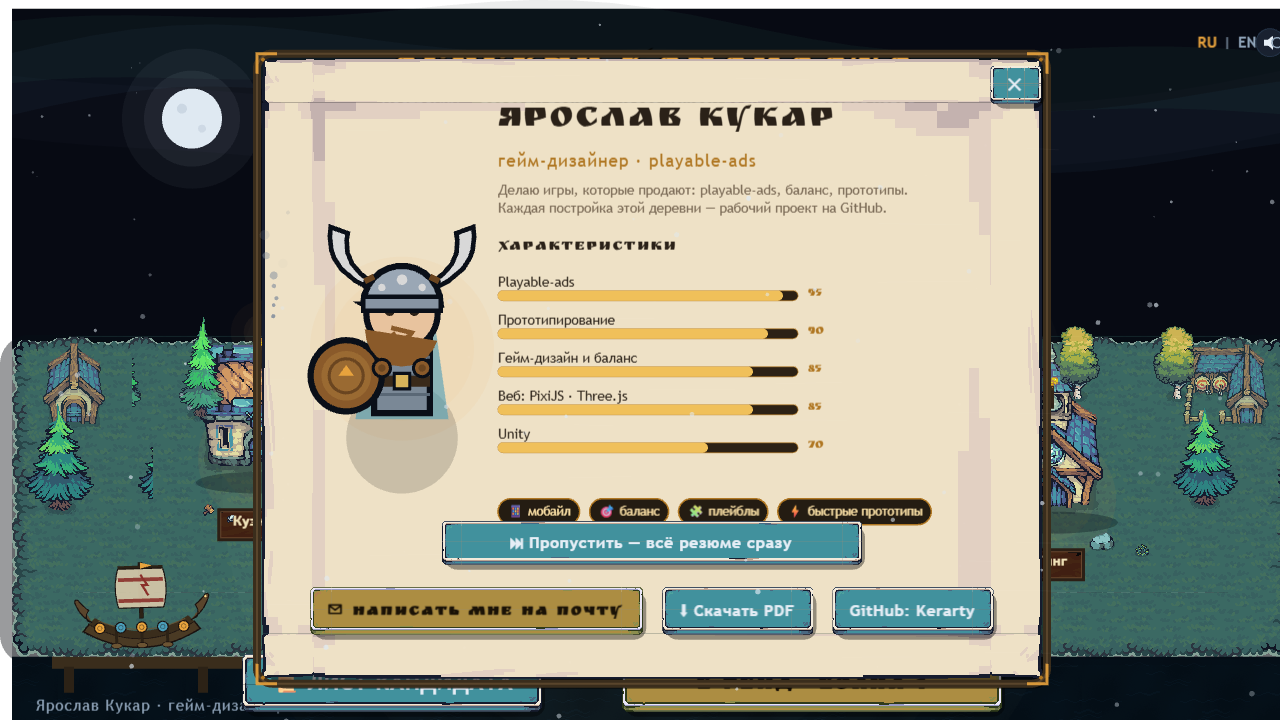
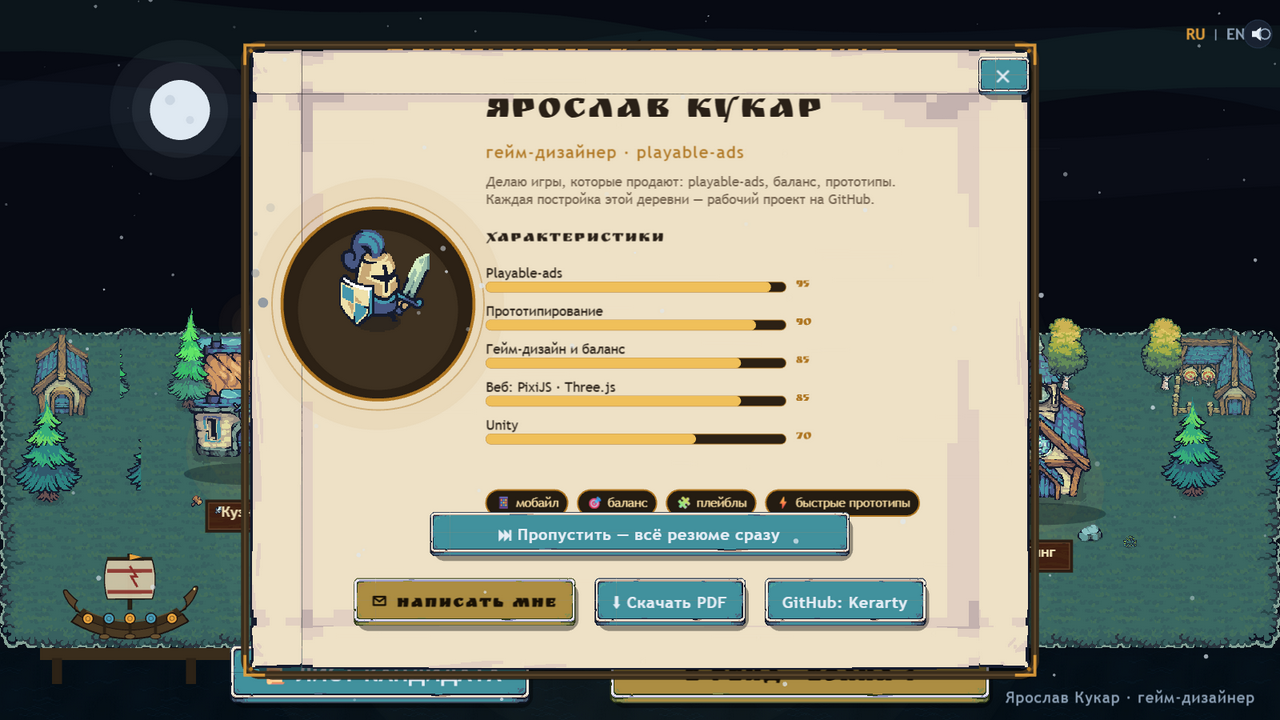
новый аватар-медальон и аккуратный ряд контактов в листе
Аватар — спрайт воина Tiny Swords в золотом медальоне (процедурный викинг остался фолбэком). Кнопка письма переименована в «Написать мне», ряд контактов сжимается под ширину панели и больше не вылезает за пергамент на узких окнах — заодно починился и он в «Резюме целиком».

diff --git a/index.html b/index.html
@@ -2484,7 +2484,7 @@ G.T = {
     sheet_title: 'Лист кандидата',
     sheet_stats: 'Характеристики',
     sheet_contacts: 'Контакты',
-    sheet_mail: '✉ Написать мне на почту',
+    sheet_mail: '✉ Написать мне',
     sheet_pdf: '⬇ Скачать PDF',
     sheet_all: '⏭ Пропустить — всё резюме сразу',
     fr_title: 'Резюме целиком',
@@ -4974,14 +4974,18 @@ G.ui = {
     const grain = G.viz.grain(w, h, 0.045);
     grain.x = -w / 2; grain.y = -h / 2;
     c.addChild(sheet, g, grain);
-    // аватар: викинг с кольчугой, косами и щитом
+    // аватар: медальон со спрайтом воина Tiny Swords (фолбэк — процедурный викинг)
     const avatar = new PIXI.Container();
-    avatar.x = -w / 2 + 140; avatar.y = -30;
+    avatar.x = -w / 2 + 128; avatar.y = -70;
     const halo = new PIXI.Graphics();
-    halo.circle(0, 10, 92).fill({ color: G.C.gold, alpha: 0.06 });
-    halo.circle(0, 10, 72).fill({ color: G.C.gold, alpha: 0.05 });
+    const R = 96;
+    halo.circle(0, 14, R + 30).fill({ color: G.C.goldDark, alpha: 0.07 });
+    halo.circle(0, 14, R + 10).stroke({ width: 1.5, color: G.C.goldDark, alpha: 0.45 });
+    halo.circle(0, 14, R).fill(0x2c2115);
+    halo.circle(0, 14, R).stroke({ width: 3, color: G.C.goldDark });
+    halo.circle(0, 20, R - 16).fill({ color: 0xffe0a0, alpha: 0.09 });
     const av = new PIXI.Graphics();
-    av.scale.set(3.1);
+    av.scale.set(1);
     const OUT = 0x0a0f18;
     av.circle(0, 32, 18).fill({ color: 0x000000, alpha: 0.16 });
     // плащ
@@ -5023,7 +5027,21 @@ G.ui = {
       .quadraticCurveTo(19.5, -25, 11.5, -19.5).closePath().fill(0xd8d8d8).stroke({ width: 1.5, color: OUT });
     av.moveTo(-12, -18.5).lineTo(-9, -20).stroke({ width: 2, color: 0x6a4520 });
     av.moveTo(12, -18.5).lineTo(9, -20).stroke({ width: 2, color: 0x6a4520 });
-    avatar.addChild(halo, av);
+    avatar.addChild(halo);
+    if (G.TEX && G.TEX.hero_warrior_idle) {
+      // спрайтовый воин в медальоне
+      const fr = G.TEX.hero_warrior_idle.frames[0];
+      const sp = new PIXI.Sprite(fr);
+      sp.anchor.set(0.5, 0.66);
+      const sc = (R * 2.3) / 192;
+      sp.scale.set(sc, sc);
+      sp.x = 0; sp.y = 30;
+      avatar.addChild(sp);
+    } else {
+      // процедурный фолбэк
+      av.scale.set(3.1);
+      avatar.addChild(av);
+    }
     c.addChild(avatar);
 
     // имя и роль
@@ -5138,9 +5156,13 @@ G.ui = {
     }, false);
     mkContact(G.t('sheet_github'), () => window.open(G.CONFIG.github, '_blank'), false);
     const gapC = 16;
-    const totalC = contactBtns.reduce((acc, b) => acc + b.width, 0) + gapC * (contactBtns.length - 1);
+    let totalC = contactBtns.reduce((acc, b) => acc + b.width, 0) + gapC * (contactBtns.length - 1);
+    // ряд не шире пергамента: иначе кнопки пропорционально сжимаются
+    const fitK = Math.min(1, (w - 56) / totalC);
+    if (fitK < 1) for (const b of contactBtns) b.scale.set(fitK);
+    totalC *= fitK;
     let cx2 = -totalC / 2;
-    for (const b of contactBtns) { b.x = cx2 + b.width / 2; cx2 += b.width + gapC; }
+    for (const b of contactBtns) { b.x = cx2 + b.width * fitK / 2; cx2 += b.width * fitK + gapC; }
     c.addChild(...contactBtns);
 
     if (onClose) c.addChild(G.ui.button({ label: '✕', x: w / 2 - 26, y: -h / 2 + 26, w: 38, h: 38, small: true, onClick: onClose }));

diff --git a/src/ui.js b/src/ui.js
@@ -388,14 +388,18 @@ G.ui = {
     const grain = G.viz.grain(w, h, 0.045);
     grain.x = -w / 2; grain.y = -h / 2;
     c.addChild(sheet, g, grain);
-    // аватар: викинг с кольчугой, косами и щитом
+    // аватар: медальон со спрайтом воина Tiny Swords (фолбэк — процедурный викинг)
     const avatar = new PIXI.Container();
-    avatar.x = -w / 2 + 140; avatar.y = -30;
+    avatar.x = -w / 2 + 128; avatar.y = -70;
     const halo = new PIXI.Graphics();
-    halo.circle(0, 10, 92).fill({ color: G.C.gold, alpha: 0.06 });
-    halo.circle(0, 10, 72).fill({ color: G.C.gold, alpha: 0.05 });
+    const R = 96;
+    halo.circle(0, 14, R + 30).fill({ color: G.C.goldDark, alpha: 0.07 });
+    halo.circle(0, 14, R + 10).stroke({ width: 1.5, color: G.C.goldDark, alpha: 0.45 });
+    halo.circle(0, 14, R).fill(0x2c2115);
+    halo.circle(0, 14, R).stroke({ width: 3, color: G.C.goldDark });
+    halo.circle(0, 20, R - 16).fill({ color: 0xffe0a0, alpha: 0.09 });
     const av = new PIXI.Graphics();
-    av.scale.set(3.1);
+    av.scale.set(1);
     const OUT = 0x0a0f18;
     av.circle(0, 32, 18).fill({ color: 0x000000, alpha: 0.16 });
     // плащ
@@ -437,7 +441,21 @@ G.ui = {
       .quadraticCurveTo(19.5, -25, 11.5, -19.5).closePath().fill(0xd8d8d8).stroke({ width: 1.5, color: OUT });
     av.moveTo(-12, -18.5).lineTo(-9, -20).stroke({ width: 2, color: 0x6a4520 });
     av.moveTo(12, -18.5).lineTo(9, -20).stroke({ width: 2, color: 0x6a4520 });
-    avatar.addChild(halo, av);
+    avatar.addChild(halo);
+    if (G.TEX && G.TEX.hero_warrior_idle) {
+      // спрайтовый воин в медальоне
+      const fr = G.TEX.hero_warrior_idle.frames[0];
+      const sp = new PIXI.Sprite(fr);
+      sp.anchor.set(0.5, 0.66);
+      const sc = (R * 2.3) / 192;
+      sp.scale.set(sc, sc);
+      sp.x = 0; sp.y = 30;
+      avatar.addChild(sp);
+    } else {
+      // процедурный фолбэк
+      av.scale.set(3.1);
+      avatar.addChild(av);
+    }
     c.addChild(avatar);
 
     // имя и роль
@@ -552,9 +570,13 @@ G.ui = {
     }, false);
     mkContact(G.t('sheet_github'), () => window.open(G.CONFIG.github, '_blank'), false);
     const gapC = 16;
-    const totalC = contactBtns.reduce((acc, b) => acc + b.width, 0) + gapC * (contactBtns.length - 1);
+    let totalC = contactBtns.reduce((acc, b) => acc + b.width, 0) + gapC * (contactBtns.length - 1);
+    // ряд не шире пергамента: иначе кнопки пропорционально сжимаются
+    const fitK = Math.min(1, (w - 56) / totalC);
+    if (fitK < 1) for (const b of contactBtns) b.scale.set(fitK);
+    totalC *= fitK;
     let cx2 = -totalC / 2;
-    for (const b of contactBtns) { b.x = cx2 + b.width / 2; cx2 += b.width + gapC; }
+    for (const b of contactBtns) { b.x = cx2 + b.width * fitK / 2; cx2 += b.width * fitK + gapC; }
     c.addChild(...contactBtns);
 
     if (onClose) c.addChild(G.ui.button({ label: '✕', x: w / 2 - 26, y: -h / 2 + 26, w: 38, h: 38, small: true, onClick: onClose }));

diff --git a/src/i18n.js b/src/i18n.js
@@ -35,7 +35,7 @@ G.T = {
     sheet_title: 'Лист кандидата',
     sheet_stats: 'Характеристики',
     sheet_contacts: 'Контакты',
-    sheet_mail: '✉ Написать мне на почту',
+    sheet_mail: '✉ Написать мне',
     sheet_pdf: '⬇ Скачать PDF',
     sheet_all: '⏭ Пропустить — всё резюме сразу',
     fr_title: 'Резюме целиком',
